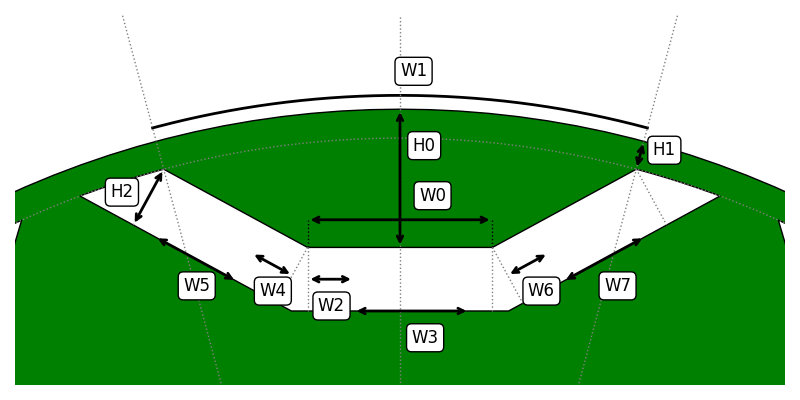
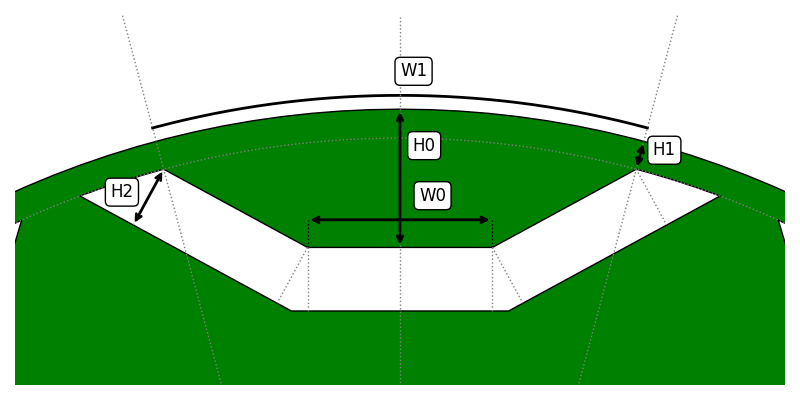
[WP] cleaning schematics

diff --git a/pyleecan/Methods/Slot/HoleM51/plot_schematics.py b/pyleecan/Methods/Slot/HoleM51/plot_schematics.py
@@ -110,26 +110,17 @@ def plot_schematics(
                 fig=fig,
                 ax=ax,
             )
-    elif type_add_active == 0:
-        # Remove magnets
-        lam = self.parent.copy()
-        lam.hole[0].remove_magnet()
-        return lam.hole[0].plot_schematics(
-            is_default=False,
-            is_add_point_label=is_add_point_label,
-            is_add_schematics=is_add_schematics,
-            is_add_main_line=is_add_main_line,
-            type_add_active=2,
-            save_path=save_path,
-            is_show_fig=is_show_fig,
-            fig=fig,
-            ax=ax,
-        )
+
     else:
         # Getting the main plot
         if self.parent is None:
             raise ParentMissingError("Error: The hole is not inside a Lamination")
         lam = self.parent
+
+        # Remove the magnets
+        if type_add_active == 0:
+            lam.hole[0].remove_magnet()
+
         alpha = pi / 2  # To rotate the schematics
         fig, ax = lam.plot(
             alpha=pi / self.Zh + alpha,
@@ -186,93 +177,97 @@ def plot_schematics(
                 offset_label=1j * self.H2 * 0.3,
                 fontsize=SC_FONT_SIZE,
             )
-            # W2
-            line = Segment(
-                (point_dict["Z2"] + point_dict["Z12"]) / 2 * exp(1j * alpha),
-                (point_dict["Z1"] + point_dict["Z13"]) / 2 * exp(1j * alpha),
-            )
-            line.plot(
-                fig=fig,
-                ax=ax,
-                color=ARROW_COLOR,
-                linewidth=ARROW_WIDTH,
-                label="W2",
-                offset_label=-self.H2 * 0.2 - 1j * self.H2 * 0.5,
-                is_arrow=True,
-                fontsize=SC_FONT_SIZE,
-            )
-            # W3
-            line = Segment(
-                point_dict["Z13"] * exp(1j * alpha), point_dict["Z14"] * exp(1j * alpha)
-            )
-            line.plot(
-                fig=fig,
-                ax=ax,
-                color=ARROW_COLOR,
-                linewidth=ARROW_WIDTH,
-                label="W3",
-                offset_label=-1j * self.H2 * 0.5,
-                is_arrow=True,
-                fontsize=SC_FONT_SIZE,
-            )
-            # W4
-            line = Segment(
-                (point_dict["Z3"] + point_dict["Z9"]) / 2 * exp(1j * alpha),
-                (point_dict["Z10"] + point_dict["Z2"]) / 2 * exp(1j * alpha),
-            )
-            line.plot(
-                fig=fig,
-                ax=ax,
-                color=ARROW_COLOR,
-                linewidth=ARROW_WIDTH,
-                label="W4",
-                offset_label=-self.H2 * 0.2 - 1j * self.H2 * 0.5,
-                is_arrow=True,
-                fontsize=SC_FONT_SIZE,
-            )
-            # W5
-            line = Segment(
-                point_dict["Z9"] * exp(1j * alpha), point_dict["Z8"] * exp(1j * alpha)
-            )
-            line.plot(
-                fig=fig,
-                ax=ax,
-                color=ARROW_COLOR,
-                linewidth=ARROW_WIDTH,
-                label="W5",
-                offset_label=-self.H2 * 0.2 - 1j * self.H2 * 0.5,
-                is_arrow=True,
-                fontsize=SC_FONT_SIZE,
-            )
-            # W6
-            line = Segment(
-                (point_dict["Z25"] + point_dict["Z17"]) / 2 * exp(1j * alpha),
-                (point_dict["Z24"] + point_dict["Z18"]) / 2 * exp(1j * alpha),
-            )
-            line.plot(
-                fig=fig,
-                ax=ax,
-                color=ARROW_COLOR,
-                linewidth=ARROW_WIDTH,
-                label="W6",
-                offset_label=-1j * self.H2 * 0.5,
-                is_arrow=True,
-                fontsize=SC_FONT_SIZE,
-            )
-            # W7
-            line = Segment(
-                point_dict["Z18"] * exp(1j * alpha), point_dict["Z19"] * exp(1j * alpha)
-            )
-            line.plot(
-                fig=fig,
-                ax=ax,
-                color=ARROW_COLOR,
-                linewidth=ARROW_WIDTH,
-                label="W7",
-                offset_label=-1j * self.H2 * 0.5,
-                is_arrow=True,
-                fontsize=SC_FONT_SIZE,
-            )
+            if type_add_active != 0:
+                # W2
+                line = Segment(
+                    (point_dict["Z2"] + point_dict["Z12"]) / 2 * exp(1j * alpha),
+                    (point_dict["Z1"] + point_dict["Z13"]) / 2 * exp(1j * alpha),
+                )
+                line.plot(
+                    fig=fig,
+                    ax=ax,
+                    color=ARROW_COLOR,
+                    linewidth=ARROW_WIDTH,
+                    label="W2",
+                    offset_label=-self.H2 * 0.2 - 1j * self.H2 * 0.5,
+                    is_arrow=True,
+                    fontsize=SC_FONT_SIZE,
+                )
+                # W3
+                line = Segment(
+                    point_dict["Z13"] * exp(1j * alpha),
+                    point_dict["Z14"] * exp(1j * alpha),
+                )
+                line.plot(
+                    fig=fig,
+                    ax=ax,
+                    color=ARROW_COLOR,
+                    linewidth=ARROW_WIDTH,
+                    label="W3",
+                    offset_label=-1j * self.H2 * 0.5,
+                    is_arrow=True,
+                    fontsize=SC_FONT_SIZE,
+                )
+                # W4
+                line = Segment(
+                    (point_dict["Z3"] + point_dict["Z9"]) / 2 * exp(1j * alpha),
+                    (point_dict["Z10"] + point_dict["Z2"]) / 2 * exp(1j * alpha),
+                )
+                line.plot(
+                    fig=fig,
+                    ax=ax,
+                    color=ARROW_COLOR,
+                    linewidth=ARROW_WIDTH,
+                    label="W4",
+                    offset_label=-self.H2 * 0.2 - 1j * self.H2 * 0.5,
+                    is_arrow=True,
+                    fontsize=SC_FONT_SIZE,
+                )
+                # W5
+                line = Segment(
+                    point_dict["Z9"] * exp(1j * alpha),
+                    point_dict["Z8"] * exp(1j * alpha),
+                )
+                line.plot(
+                    fig=fig,
+                    ax=ax,
+                    color=ARROW_COLOR,
+                    linewidth=ARROW_WIDTH,
+                    label="W5",
+                    offset_label=-self.H2 * 0.2 - 1j * self.H2 * 0.5,
+                    is_arrow=True,
+                    fontsize=SC_FONT_SIZE,
+                )
+                # W6
+                line = Segment(
+                    (point_dict["Z25"] + point_dict["Z17"]) / 2 * exp(1j * alpha),
+                    (point_dict["Z24"] + point_dict["Z18"]) / 2 * exp(1j * alpha),
+                )
+                line.plot(
+                    fig=fig,
+                    ax=ax,
+                    color=ARROW_COLOR,
+                    linewidth=ARROW_WIDTH,
+                    label="W6",
+                    offset_label=-1j * self.H2 * 0.5,
+                    is_arrow=True,
+                    fontsize=SC_FONT_SIZE,
+                )
+                # W7
+                line = Segment(
+                    point_dict["Z18"] * exp(1j * alpha),
+                    point_dict["Z19"] * exp(1j * alpha),
+                )
+                line.plot(
+                    fig=fig,
+                    ax=ax,
+                    color=ARROW_COLOR,
+                    linewidth=ARROW_WIDTH,
+                    label="W7",
+                    offset_label=-1j * self.H2 * 0.5,
+                    is_arrow=True,
+                    fontsize=SC_FONT_SIZE,
+                )
             # H0
             line = Segment(
                 point_dict["Z1"].real * exp(1j * alpha), Rbo * exp(1j * alpha)
